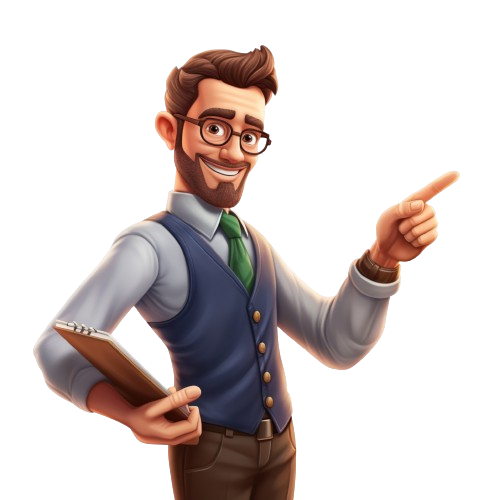
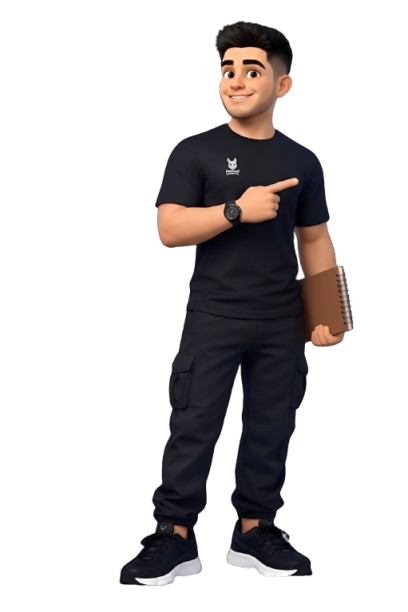
FIX: add diego´s caricature

diff --git a/app/(routes)/services/page.tsx b/app/(routes)/services/page.tsx
@@ -10,11 +10,11 @@ const ServicesPage = () => {
             <TransitionPage />
             <CircleImage />
             <AvatarServices />
-            <div className="grid mt-24 px-8 md:px-auto md:mt-auto items-center justify-center h-screen max-w-5xl gap-6 mx-auto md:grid-cols-2">
+            <div className="grid mt-24 px-8 md:px-auto md:mt-auto items-center justify-center h-screen max-w-5xl gap-6 mx-auto md:grid-cols-2 ">
                 <div className="max-w-[450px]">
 
                     <h1 className="text-2xl leading-tight text-center md:text-left md:text-4xl md:mb-5">Lo que mas me <span className="font-bold text-secondary"> gusta</span> 😍</h1>
-                    <p className="mb-8 text-xl text-gray-300">Desarrollador web apasionado por encontrar formas más inteligentes y sencillasde hacer las cosas. Vivo optimizando procesos y operaciones, apoyándome tanto en desarrollo a medida como en herramientas corporativas ya existentes, siempre con el objetivo de ahorrar tiempo y reducir costos.</p>
+                    <p className="z-50 mb-8 text-xl text-gray-300">Desarrollador web apasionado por encontrar formas más inteligentes y sencillas de hacer las cosas. Vivo optimizando procesos y operaciones, apoyándome tanto en desarrollo a medida como en herramientas corporativas ya existentes, siempre con el objetivo de ahorrar tiempo, minimizar el margen de error y reducir costos.</p>
                     <a href="mailto:diego.a.v3005@gmail.com"
                         className="px-3 py-2 my-5 transition-all border-2 cursor-pointer text-md w-fit text-secondary border-secondary rounded-xl hover:shadow-xl hover:shadow-secondary" >
                         Enviar un correo

diff --git a/components/avatar-services.tsx b/components/avatar-services.tsx
@@ -3,8 +3,8 @@ import { MotionTransition } from "./transition-component";
 
 const AvatarServices = () => {
     return (
-        <MotionTransition position='right' className="bottom-0 left-0 hidden md:inline-block md:absolute">
-            <Image src="/services.png" width="400" height="400" className="w-[350px] h-full " alt="Particles " />
+        <MotionTransition position='right' className="bottom-0 left-0 md:inline-block absolute">
+            <Image src="/services.png" width="400" height="400" className="opacity-30 md:opacity-50 2xl:opacity-100 w-[350px] h-full " alt="Particles " />
         </MotionTransition>
     );
 }
